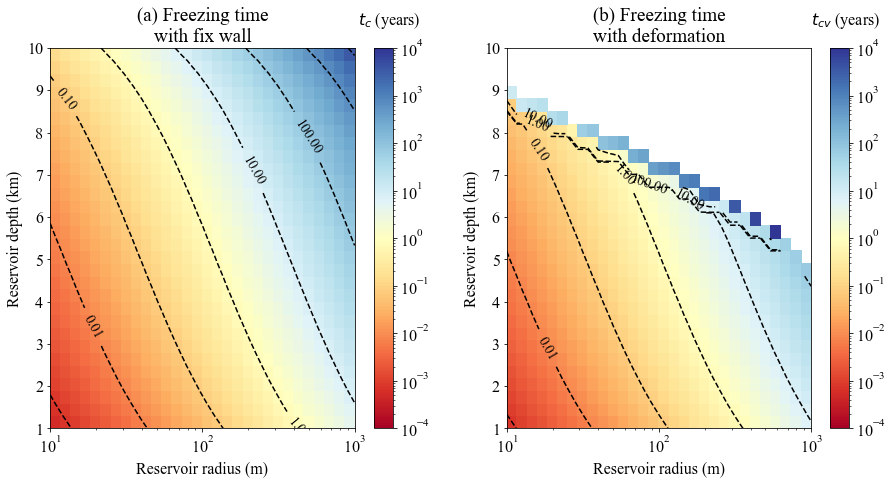
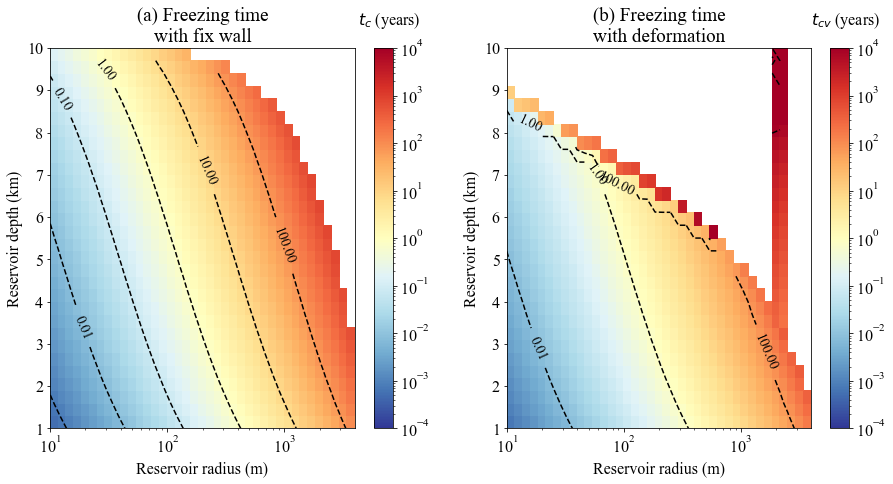
A few deeper reservoirs added. Some are converging but should not

diff --git a/graphical_outputs_definitions.py b/graphical_outputs_definitions.py
@@ -9,8 +9,11 @@ import numpy as np
 import sympy as sym
 import matplotlib.pyplot as plt
 from matplotlib.colors import LogNorm
+from matplotlib import cm
+from matplotlib.colors import ListedColormap, LinearSegmentedColormap
 from pylab import savefig
 import os
+import copy
 
 
 import reservoir_definitions as rd
@@ -253,6 +256,11 @@ def plotGraph2(RES, PC):
 
 def plotGraph3(OUT, PC):
     
+    
+    #cmap = plt.get_cmap('RdYlBu')
+    #cmap.set_bad(color='white')
+    
+    
     if PC.graph3 == 1:
         
         # axis:
@@ -262,6 +270,37 @@ def plotGraph3(OUT, PC):
         tcFixYears = OUT.tcFix /3600 /24 /365.25
         tcDeformYears = OUT.tcDeform /3600 /24 /365.25
         
+       
+        """mask = np.zeros(tcFixYears.shape, dtype=bool)
+        
+        j = 0
+        
+        for R in x:
+            i = 0
+            for H in y*1000:
+                if H+2*R > 10000:
+                    mask[i,j] = True
+                i = i+1
+            j = j+1
+        
+        tcFixYears2 = np.ma.masked_array(tcFixYears, mask)
+        tcDeformYears2 = np.ma.masked_array(tcDeformYears, mask)"""
+
+        falseRes = np.empty(tcFixYears.shape)
+        falseRes[:] = np.nan
+
+        
+        j = 0
+        for R in x:
+            i = 0
+            for H in y*1000:
+                if H+2*R > 10000:
+                    tcFixYears[i,j] = np.nan
+                    falseRes[i,j] = 0
+                i = i+1
+            j = j+1
+        print(falseRes)
+        
         plt.rc('font', family='Serif')
         plt.rc('font', **{'serif' : 'Times New Roman', 'family' : 'serif', 'size' : 16})
         plt.figure(figsize=(15,7))
@@ -269,7 +308,8 @@ def plotGraph3(OUT, PC):
         
         ax = plt.subplot(1,2,1)
         ax.set_xscale('log')
-        background = plt.pcolor(x, y, tcFixYears, cmap='RdYlBu', vmin = 1e-4, vmax = 1e4, norm=LogNorm())
+        background = plt.pcolormesh(x, y, tcFixYears, cmap='RdYlBu_r', vmin = 1e-4, vmax = 1e4, norm=LogNorm())
+        plt.pcolormesh(x, y, falseRes, cmap='hot', vmin = 1e-4, vmax = 1e4, norm=LogNorm())
         contour_dashed = plt.contour(x, y, tcFixYears, norm=LogNorm(), colors='black', linestyles='dashed')
         plt.clabel(contour_dashed, inline=True, fontsize=14, fmt= '%.2f')
         cbar=plt.colorbar(background)
@@ -284,7 +324,8 @@ def plotGraph3(OUT, PC):
         ax = plt.subplot(1,2,2)
         ax.set_xscale('log')
         #plt.gca().invert_yaxis()
-        background = plt.pcolor(x, y, tcDeformYears, cmap='RdYlBu', vmin = 1e-4, vmax = 1e4, norm=LogNorm())
+        background = plt.pcolormesh(x, y, tcDeformYears, cmap='RdYlBu_r', vmin = 1e-4, vmax = 1e4, norm=LogNorm())
+        plt.pcolormesh(x, y, falseRes, cmap='hot', vmin = 1e-4, vmax = 1e4, norm=LogNorm())
         contour_dashed = plt.contour(x, y, tcDeformYears, norm=LogNorm(), colors='black', linestyles='dashed')
         plt.clabel(contour_dashed, inline=True, fontsize=14, fmt= '%.2f')
         cbar=plt.colorbar(background)
@@ -299,20 +340,12 @@ def plotGraph3(OUT, PC):
             savePDF2("/Users/lesage/Documents/2020-2021/reservoir_deformation/numerical_model/results", "freezing_time_allres")
             
         plt.show()
-
-
-
-
-
-
-
-
-
-
-
-
-
-
+"""
+import graphical_outputs_definitions as gd
+PC.graph3 = 1
+PC.save3 = 0
+gd.plotGraph3(OUT, PC)
+"""
 
 
 

diff --git a/reservoir_main_looped.py b/reservoir_main_looped.py
@@ -23,7 +23,7 @@ import numpy as np
 salts = 0
 
 # reservoir radii (m)
-r_val = 10** np.linspace(1, 3, 31)
+r_val = 10**np.linspace(1, 4, 46)[0:40]
 
 # reservoir depth (m) (< 5500m to stay in the elastic zone)
 h_val = np.linspace(1000, 10000, 31)
@@ -116,6 +116,7 @@ for depth in h_val:
 PC.graph3 = 1
 """ save as PDF? 0 = no, 1 = yes """
 PC.save3 = 1
+
 gd.plotGraph3(OUT, PC)
 
 

diff --git a/reservoir_main.py b/reservoir_main.py
@@ -23,10 +23,10 @@ import numpy as np
 salts = 0
 
 # reservoir radius (m)
-radius = 500
+radius = 110
 
 # reservoir depth (m) (< 5500m to stay in the elastic zone)
-depth = 1500
+depth = 7200
 
 """------------------------------------------------------------------'"""
 
